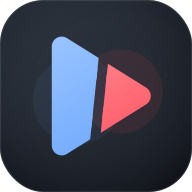
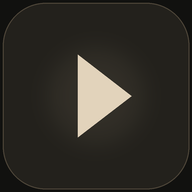
Add files via upload

diff --git a/styles.css b/styles.css
@@ -373,3 +373,130 @@ body{background:radial-gradient(900px 520px at 4% 110%,rgba(255,77,90,.075),tran
 
 .provider-logo img[hidden]{display:none}
 a:focus-visible{color:var(--link)}
+
+/* --- SYNC Minimal Premium visual system --- */
+:root{
+  color-scheme:dark;
+  --bg:#11110F;
+  --surface:#1A1916;
+  --raised:#24221E;
+  --sunk:#151411;
+  --line:rgba(220,211,194,.11);
+  --line-strong:#3A3730;
+  --text:#F1EEE7;
+  --muted:#BDB6AA;
+  --subtle:#898276;
+  --lamp:#D8C5A5;
+  --lamp-ink:#211E19;
+  --glass:#8FA18A;
+  --coral:#C77E72;
+  --link:#D8C5A5;
+  --warning:#C8A66F;
+  --danger:#C97870;
+  --display:'Onest',system-ui,-apple-system,'Segoe UI',sans-serif;
+  --ui:'Onest',system-ui,-apple-system,'Segoe UI',sans-serif;
+}
+html{background:var(--bg)}
+body{
+  color:var(--text);
+  background:
+    radial-gradient(850px 500px at 8% 108%,rgba(216,197,165,.045),transparent 68%),
+    radial-gradient(740px 420px at 100% -12%,rgba(216,197,165,.035),transparent 64%),
+    var(--bg);
+}
+.topbar{background:rgba(17,17,15,.86);border-bottom:1px solid var(--line);backdrop-filter:blur(22px)}
+.brand{letter-spacing:-.035em}
+.nav-link{border-radius:11px}
+.nav-link.active{background:rgba(216,197,165,.10);color:var(--text)}
+.button{border-radius:13px;letter-spacing:-.01em}
+.button-primary{background:var(--lamp);color:var(--lamp-ink);box-shadow:0 5px 16px rgba(216,197,165,.08)}
+.button-primary:hover:not(:disabled){background:#E5D5BC;box-shadow:0 7px 20px rgba(216,197,165,.13)}
+.button-primary:active:not(:disabled){background:#C4AF8F}
+.button-soft{background:#25231F;border-color:rgba(220,211,194,.07);color:var(--text)}
+.button-soft:hover:not(:disabled){background:#302D27}
+.button-quiet{border-color:var(--line-strong);background:transparent;color:var(--text)}
+.button-quiet:hover:not(:disabled){background:rgba(216,197,165,.07)}
+.round-button,.icon-button{border-color:var(--line-strong);background:#201F1B}
+.round-button:hover,.icon-button:hover{background:#302D27}
+:focus-visible{outline:2px solid var(--link);outline-offset:3px;box-shadow:0 0 0 4px rgba(216,197,165,.12)}
+.person-avatar,.profile-avatar{background:#28251F;border-color:#484237}
+.profile-avatar:hover,.self-avatar{border-color:var(--lamp)}
+.app-layout{gap:24px}
+.main-column{gap:26px}
+.room-head h1{letter-spacing:-.045em}
+.room-live,.now-copy .meta-label{color:var(--glass)}
+.room-live i,.sync-dot{background:var(--glass);box-shadow:0 0 0 4px rgba(143,161,138,.13)}
+.player-card,.side-card,.provider-workspace{border-color:var(--line);background:var(--surface);box-shadow:0 24px 64px -50px rgba(0,0,0,.9)}
+.player-card{border-radius:22px}
+.video-stage{background:#0D0D0C}
+.stage-empty{
+  background:
+    radial-gradient(560px 270px at 50% 112%,rgba(216,197,165,.105),transparent 70%),
+    linear-gradient(145deg,#171613,#10100F 68%);
+}
+.stage-symbol{box-shadow:0 12px 34px rgba(216,197,165,.10)}
+.mini-cover{background:#2A2721;color:var(--lamp)}
+.sync-status{background:#201F1B;color:var(--muted)}
+.section-heading h2{letter-spacing:-.035em}
+.app-picker-trigger{background:#201F1B;border-color:var(--line-strong);border-radius:13px}
+.app-picker-trigger:hover{background:#2A2721;border-color:#514A3E}
+.picker-plus{background:var(--lamp);color:var(--lamp-ink);border-radius:7px}
+.provider-grid{gap:10px}
+.provider-card{background:#1B1A17;border-color:var(--line);border-radius:16px;box-shadow:none}
+.provider-card:hover{background:#25231F;border-color:#625844;transform:translateY(-1px)}
+.provider-card.selected{background:rgba(216,197,165,.09);border-color:rgba(216,197,165,.48);box-shadow:inset 0 0 0 1px rgba(216,197,165,.08)}
+.provider-logo{background:#24221E;border:1px solid rgba(220,211,194,.08);border-radius:12px}
+.provider-copy strong{color:var(--text);font-weight:600}
+.provider-copy small{color:var(--subtle)}
+.catalog-note{color:var(--subtle)}
+.provider-workspace{background:#1A1916;border-color:var(--line);border-radius:20px}
+.workspace-eyebrow{color:var(--subtle);letter-spacing:.16em}
+.provider-search{background:#141310;border-color:var(--line-strong);border-radius:13px}
+.provider-search:focus-within,.chat-form:focus-within{border-color:rgba(216,197,165,.55);box-shadow:0 0 0 3px rgba(216,197,165,.09)}
+.provider-search input{color:var(--text)}
+.provider-message{background:#201F1B;border:1px solid var(--line);color:var(--muted);border-radius:14px}
+.provider-external{border-radius:12px}
+.result-card{background:#24221E;border-color:var(--line);border-radius:14px}
+.result-play{background:var(--lamp);color:var(--lamp-ink);border-radius:10px}
+.result-play:hover{background:#E5D5BC}
+#roomChat{background:#191815;border-color:var(--line);border-radius:20px;box-shadow:0 18px 50px -44px rgba(0,0,0,.85)}
+.chat-heading h2{letter-spacing:-.03em}
+.chat-messages{background:#141310;border-color:var(--line);border-radius:14px}
+.chat-welcome{background:#211F1B;border-color:var(--line);color:var(--muted)}
+.message-body{background:#292722;border-color:rgba(220,211,194,.08)}
+.message-meta strong{color:#D8C5A5}
+.chat-message.mine .message-body{background:#332D23;border-color:rgba(216,197,165,.16)}
+.chat-message.mine .message-meta strong{color:#E4D3B6}
+.chat-form{background:#141310;border-color:var(--line-strong);border-radius:13px}
+.chat-form button{background:var(--lamp);color:var(--lamp-ink);border-radius:10px}
+.chat-form button:hover{background:#E5D5BC}
+.voice-panel{background:linear-gradient(110deg,rgba(216,197,165,.065),#211F1B 55%);border-color:var(--line);border-radius:15px}
+.voice-icon{background:rgba(216,197,165,.12);color:var(--lamp);border-radius:11px}
+.voice-mute{background:#292620}
+.person-row:hover,.friend-row:hover{background:rgba(216,197,165,.045)}
+.person-presence,.friend-online.online{background:var(--glass);box-shadow:0 0 0 4px rgba(143,161,138,.13)}
+.friend-online{background:#6F6B62}
+.chat-live{color:var(--subtle)}
+.chat-live i{background:var(--glass);box-shadow:0 0 0 3px rgba(143,161,138,.10)}
+.text-action,.auth-switch button{color:var(--lamp)}
+.auth-gate{background:radial-gradient(780px 480px at 50% 112%,rgba(216,197,165,.075),transparent 68%),var(--bg)}
+.auth-card h1{letter-spacing:-.04em}
+.google-button{border-radius:13px;background:#F0EDE6;color:#211F1A}
+.google-button:hover:not(:disabled){background:#FFFDF8}
+.modal-backdrop{background:rgba(6,6,5,.78);backdrop-filter:blur(10px)}
+.modal-card{background:#1B1A17;border-color:var(--line-strong);border-radius:20px;box-shadow:0 34px 90px -32px rgba(0,0,0,.9)}
+.modal-close{background:#2A2721;border-radius:10px}
+.modal-close:hover{background:#38342C}
+.modal-user-row{background:#211F1B}
+.toast{background:#292620;border-color:#484237}
+.player-error{color:var(--danger)}
+input,select{accent-color:var(--lamp)}
+::selection{background:rgba(216,197,165,.28);color:var(--text)}
+a:focus-visible{color:var(--lamp)}
+@media(max-width:640px){
+  .topbar{background:rgba(17,17,15,.92)}
+  .player-card{border-radius:17px}
+  #roomChat{background:#191815;border-radius:17px}
+  .provider-card{background:#1B1A17}
+  .provider-workspace{background:#191815}
+}

diff --git a/index.html b/index.html
@@ -3,7 +3,7 @@
 <head>
   <meta charset="utf-8" />
   <meta name="viewport" content="width=device-width, initial-scale=1, viewport-fit=cover" />
-  <meta name="theme-color" content="#0B0F17" />
+  <meta name="theme-color" content="#11110F" />
   <meta name="description" content="SYNC — смотри вместе с друзьями." />
   <title>SYNC — Что будем смотреть?</title>
   <link rel="icon" type="image/svg+xml" href="icon.svg" />

diff --git a/sw.js b/sw.js
@@ -1,4 +1,4 @@
-const CACHE = "sync-pwa-v17";
+const CACHE = "sync-pwa-v18";
 const ASSETS = ["./", "./index.html", "./styles.css", "./app.js", "./config.js", "./manifest.webmanifest", "./icon.svg", "./icon-192.png", "./icon-512.png", "./icon-maskable-512.png", "./apple-touch-icon.png"];
 
 self.addEventListener("install", event => {
